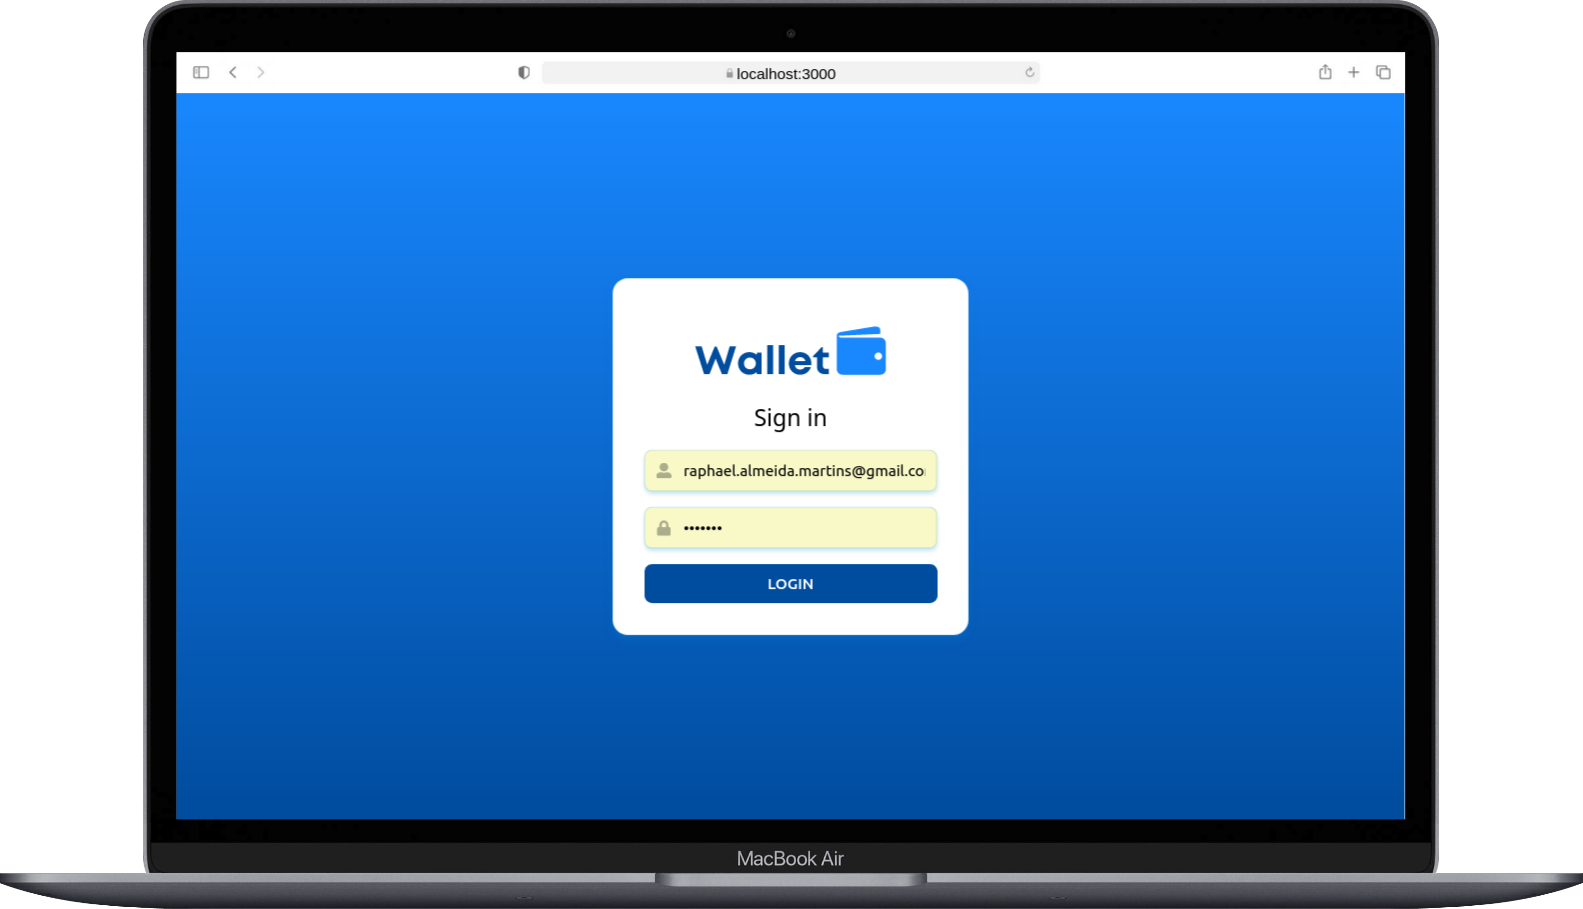
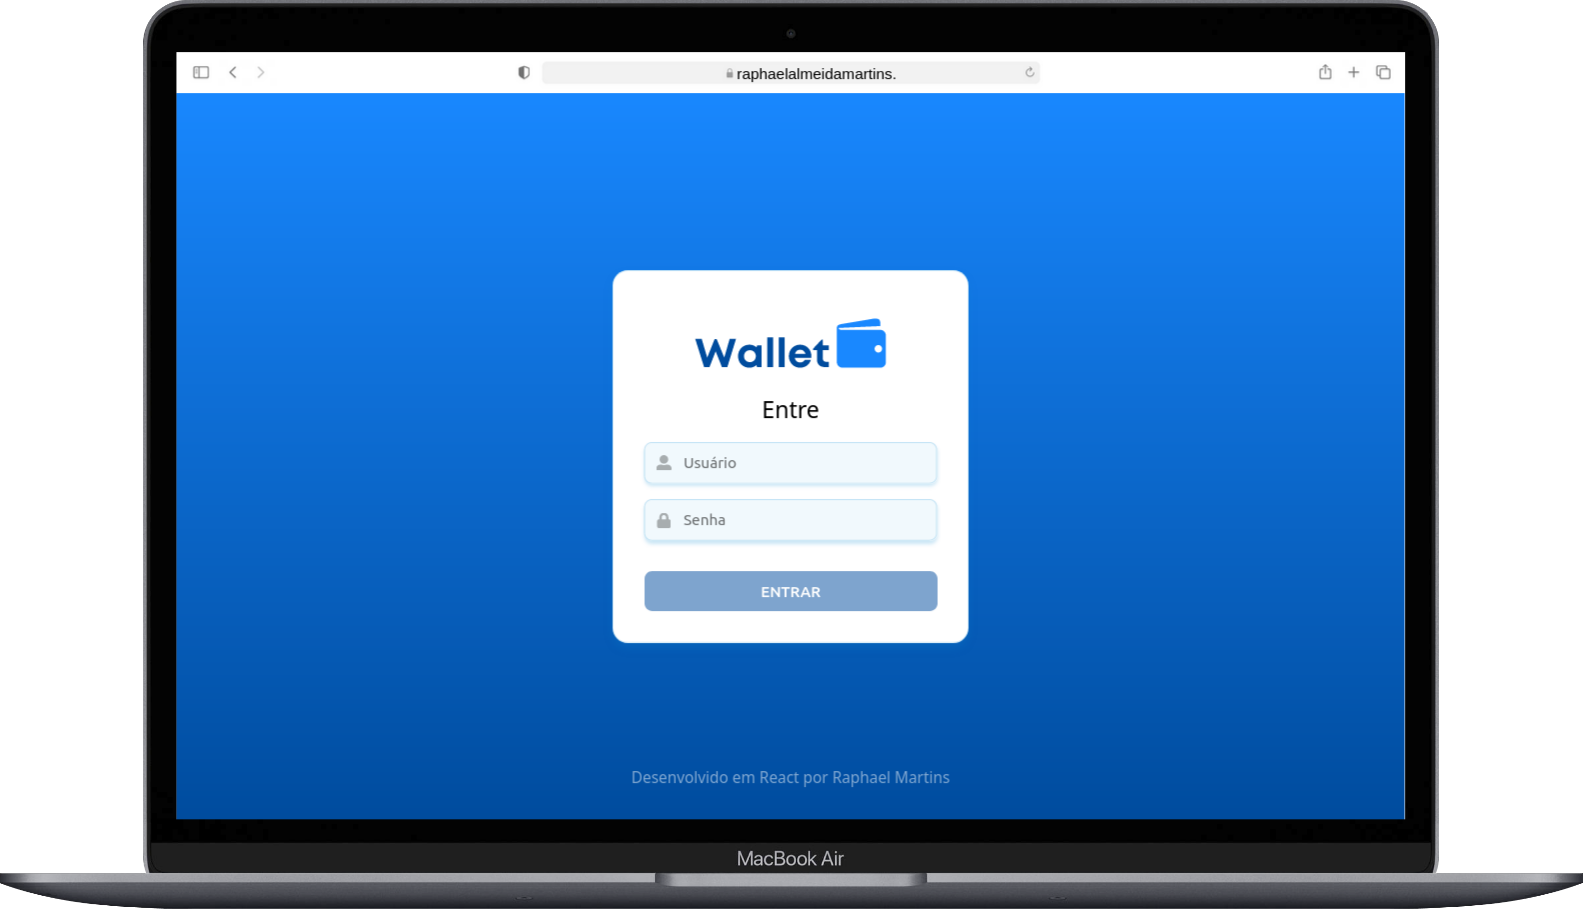
docs: README - updated README with link to deploy and added more information in the Tools section.

diff --git a/README.md b/README.md
@@ -8,14 +8,7 @@ React project developed by [Raphael Martins](https://www.linkedin.com/in/raphael
 
 We had to develop a wallet React application using the React Router, Redux and fetching currency exchange rates from a public API.
 
-### Note
-
-This project is still under development. I am implementing the layout, and I will refactor the code. I haven't deployed the application yet.
-
-### In progress
-
-- [ ] Finishing CSS
-- [ ] Adding English translation (the project is currently only available in Brazilian Portuguese)
+[Click here](https://raphaelalmeidamartins.github.io/trybewallet/) to check out the final version of the project on your browser.
 
 ## :man_technologist: Developed Skills
 
@@ -23,6 +16,7 @@ This project is still under development. I am implementing the layout, and I wil
 * React to user interactions by manipulating the components' states and props according to user events
 * Use the React Router library to handle page navigation
 * Use the Redux library to create a global state
+* Use the Redux thunk package to handle asynchronous actions
 
 ## :memo: Methodologies
 
@@ -36,6 +30,7 @@ This project is still under development. I am implementing the layout, and I wil
 * React.js
 * React Icons (icon library)
 * Redux
+* Redux tunk
 * GitHub Pages
 
 ## :trophy: Grade
